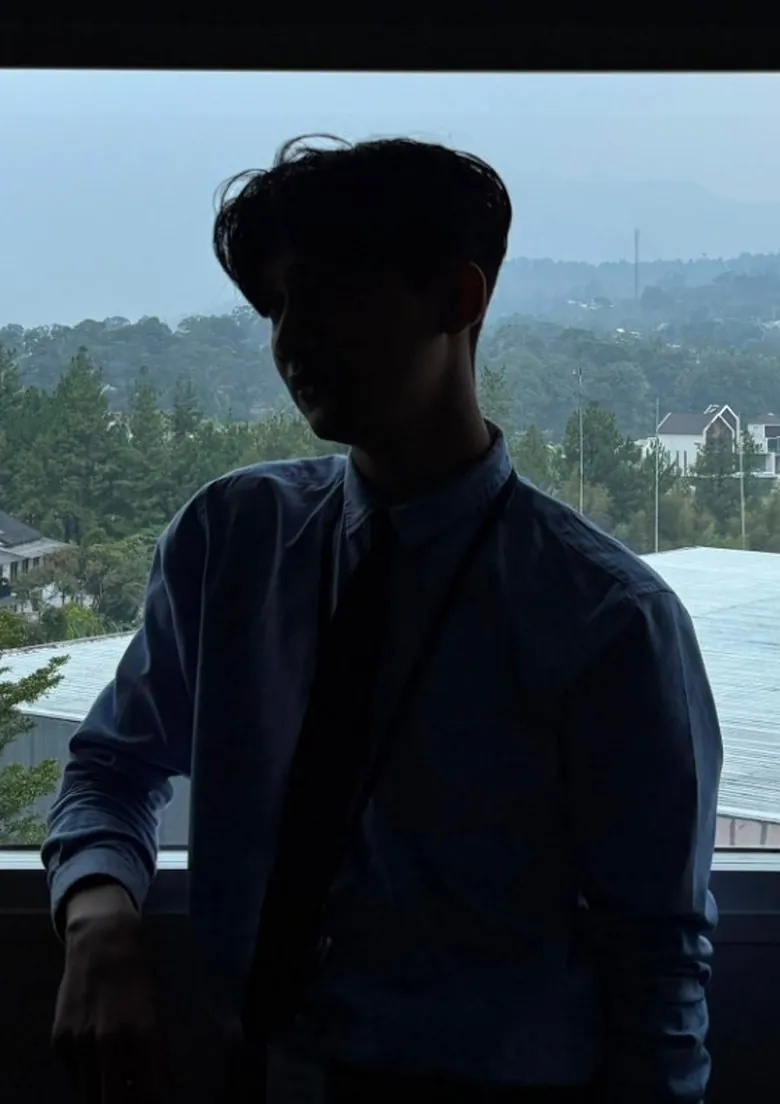
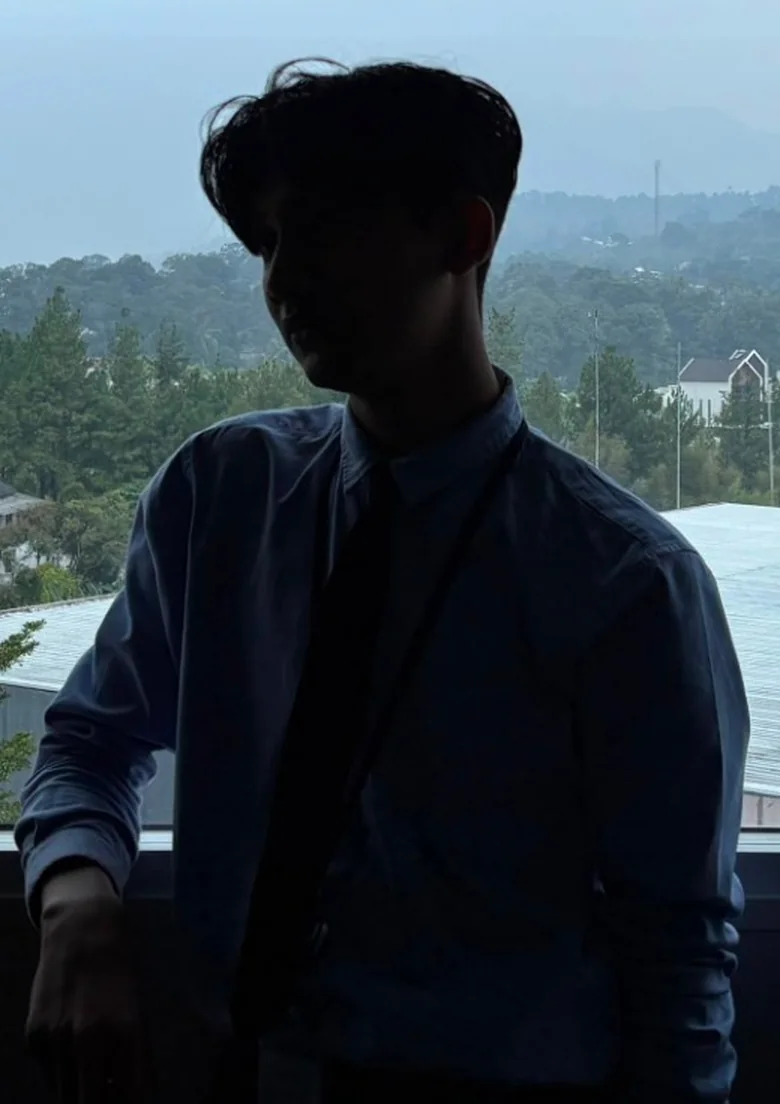
Fuller hero: bigger photo card, bigger role words
The card and the two role words now scale with both viewport width and
height, so the hero fills large screens and still fits a 1366x768 laptop.
The black strip is cropped out of the hero photo.

diff --git a/src/styles.css b/src/styles.css
@@ -15,8 +15,8 @@
   --radius-pill: 99px;
 
   --gutter: 40px;
-  --card-w: 260px;
-  --card-h: 368px;
+  --card-w: clamp(240px, min(21vw, 34vh), 380px);
+  --card-h: calc(var(--card-w) * 1.415);
   --ease: cubic-bezier(0.2, 0.8, 0.2, 1);
 }
 
@@ -288,9 +288,16 @@ ul {
   position: relative;
   display: grid;
   grid-template-rows: auto 1fr auto;
+  max-width: 1440px;
   min-height: max(100svh, 760px);
   padding-top: 22px;
   padding-bottom: 40px;
+}
+
+/* The two role words are set big and overlap the card, so the hero reads as one poster. */
+.hero .display {
+  font-size: clamp(64px, min(11vw, 17vh), 200px);
+  line-height: 0.95;
 }
 
 .hero__top,
@@ -314,13 +321,13 @@ ul {
   display: flex;
   align-items: center;
   justify-content: center;
-  padding: 24px 0;
+  margin: clamp(-40px, -2vw, -12px) 0 0;
 }
 
 .hi-bubble {
   position: absolute;
   left: -42px;
-  bottom: -42px;
+  bottom: 28px;
   z-index: 3;
   display: grid;
   place-items: center;
@@ -335,7 +342,7 @@ ul {
 
 .hero__bottom {
   justify-self: end;
-  margin-top: -56px;
+  margin-top: -8px;
   padding-right: clamp(0px, 6vw, 80px);
   text-align: center;
 }
